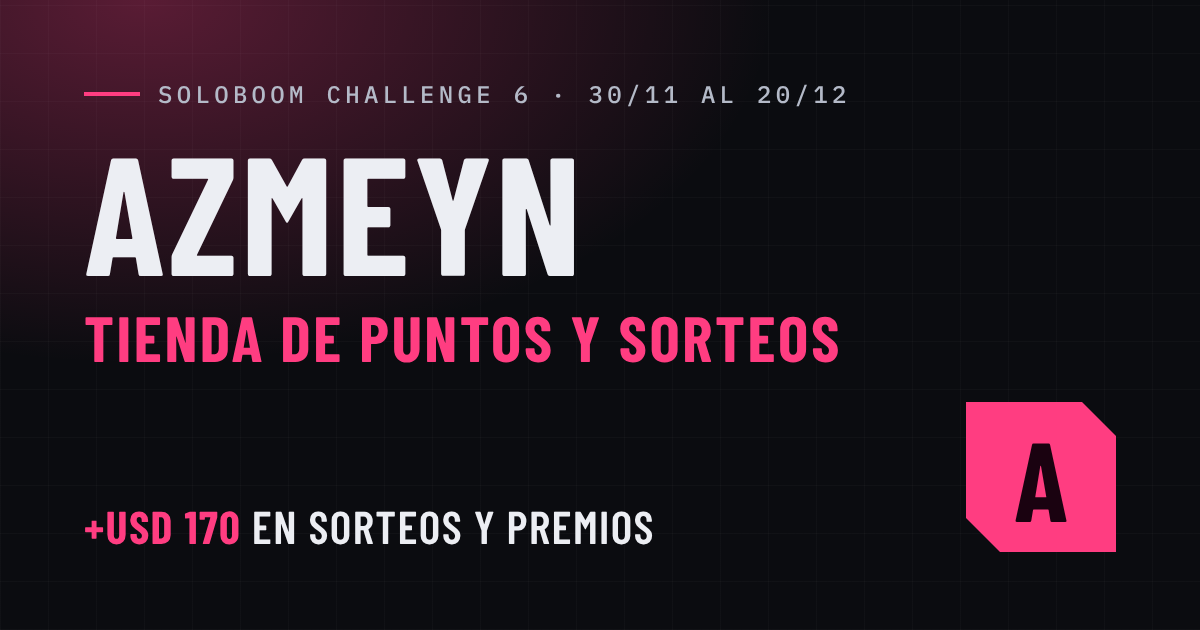
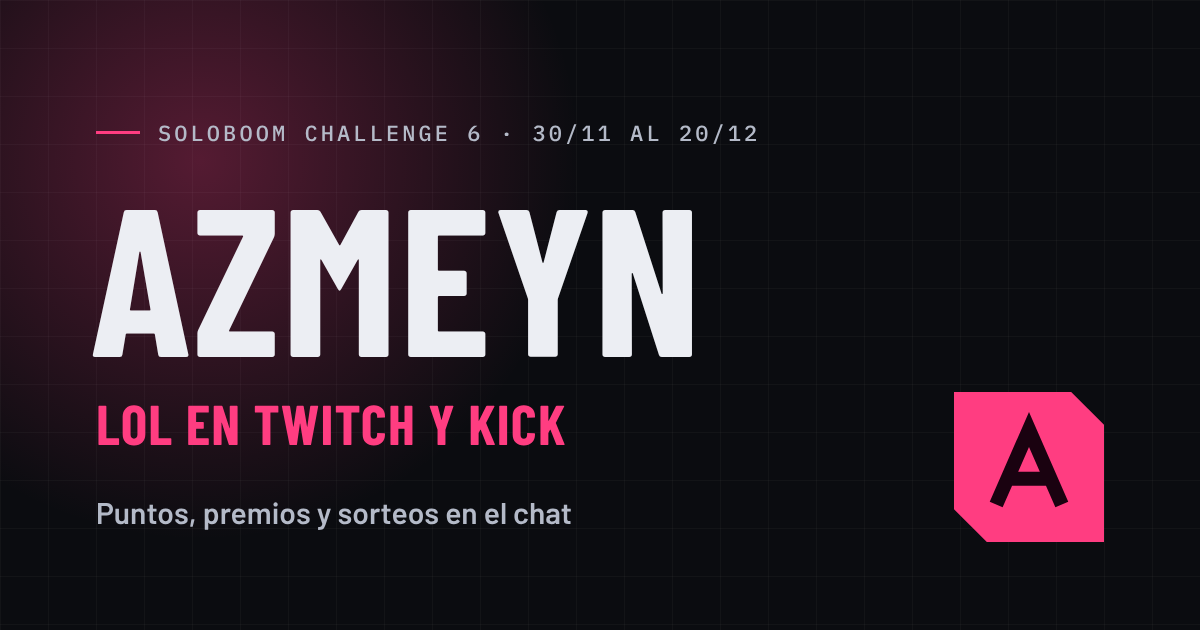
Add files via upload

diff --git a/public/soloboom.html b/public/soloboom.html
@@ -9,8 +9,8 @@
   <meta property="og:type" content="website">
   <meta property="og:locale" content="es_AR">
   <meta property="og:title" content="Tienda · SoloBoom Challenge 6">
-  <meta property="og:description" content="Mirá mi directo en Twitch, juntá puntos para canjear premios y participá por +USD 170 en sorteos durante el SoloBoom 6.">
-  <meta property="og:image" content="og.png">
+  <meta property="og:description" content="Mirá mi directo en Twitch, juntá puntos para canjear premios y participá en los sorteos durante el SoloBoom 6.">
+  <meta property="og:image" content="https://azmeyn.azmeynmgmt.workers.dev/og.png">
   <meta name="twitter:card" content="summary_large_image">
   <link rel="preload" href="fonts/barlow-latin-400-normal.woff2" as="font" type="font/woff2" crossorigin>
   <link rel="preload" href="fonts/barlow-condensed-latin-700-normal.woff2" as="font" type="font/woff2" crossorigin>
@@ -379,19 +379,6 @@
         align-items: center;
       }
     }
-    .prize {
-      display: flex;
-      flex-wrap: wrap;
-      align-items: baseline;
-      gap: 6px 16px;
-      margin-top: 30px;
-    }
-    .prize b {
-      font: 700 clamp(60px, 14vw, 104px)/0.85 var(--font-display);
-      color: var(--accent);
-      letter-spacing: -0.01em;
-    }
-    .prize span { color: var(--muted); max-width: 30ch; }
     .hero-rows { margin-top: 24px; }
     .hero-rows .r {
       display: grid;
@@ -1006,10 +993,6 @@
           <p class="eyebrow">SoloBoom Challenge 6 · 30/11 al 20/12</p>
           <h1 id="titulo">Tienda</h1>
           <p class="lede">Mirá mi directo en Twitch, juntá puntos para canjear premios y acumulá tickets en el chat para los sorteos.</p>
-          <div class="prize">
-            <b>+USD 170</b>
-            <span>en sorteos y premios de la tienda</span>
-          </div>
           <div class="hero-rows">
             <div class="r"><span class="k">Cada hora</span><span class="v">+60</span><span class="t">puntos mirando el directo en Twitch</span></div>
             <div class="r"><span class="k">Cada domingo</span><span class="v">USD 20</span><span class="t">en el sorteo semanal (6, 13 y 20/12)</span></div>
@@ -1760,24 +1743,6 @@
     if (!reduced) { Array.prototype.forEach.call(steps, function (el) { el.classList.add("fx"); }); }
     return reduced ? [] : steps;
   })());
-
-  /* El número del pozo sube de 0 al total al cargar (800 ms) */
-  (function () {
-    var el = document.querySelector(".prize b");
-    if (!el || reduced) { return; }
-    var total = parseInt(el.textContent.replace(/\D/g, ""), 10);
-    if (isNaN(total)) { return; }
-    el.style.minWidth = el.offsetWidth + "px";
-    var t0 = null;
-    function step(t) {
-      if (t0 === null) { t0 = t; }
-      var k = Math.min(1, (t - t0) / 800);
-      el.textContent = "+USD " + Math.round(total * (1 - Math.pow(1 - k, 3)));
-      if (k < 1) { requestAnimationFrame(step); }
-    }
-    el.textContent = "+USD 0";
-    requestAnimationFrame(step);
-  })();
 })();
 </script>
 

diff --git a/public/index.html b/public/index.html
@@ -10,7 +10,7 @@
   <meta property="og:title" content="Azmeyn">
   <meta property="og:description" content="Directos en Twitch y Kick, comunidad en Discord y contenido en TikTok, Instagram y YouTube.">
   <meta property="og:locale" content="es_AR">
-  <meta property="og:image" content="og.png">
+  <meta property="og:image" content="https://azmeyn.azmeynmgmt.workers.dev/og.png">
   <meta name="twitter:card" content="summary_large_image">
   <link id="fav" rel="icon" href="favicon.svg" type="image/svg+xml">
   <link rel="apple-touch-icon" href="apple-touch-icon.png">
